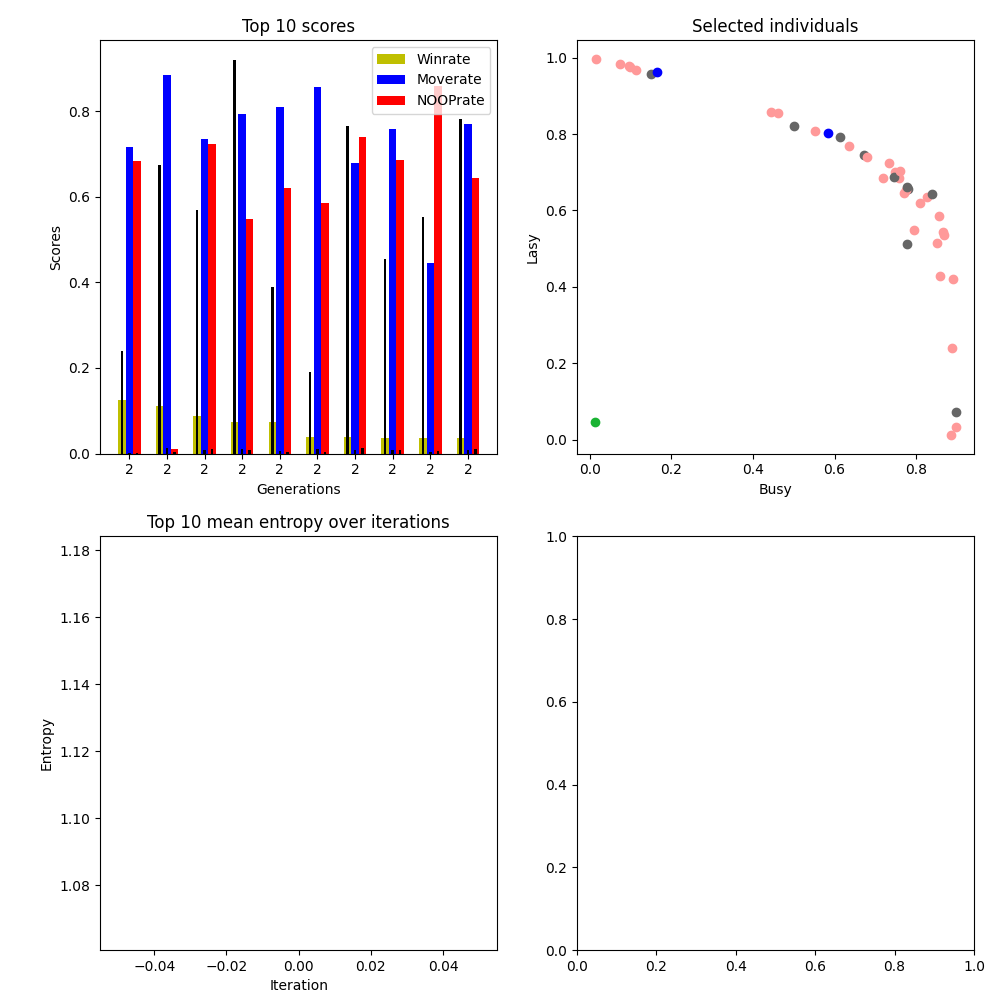
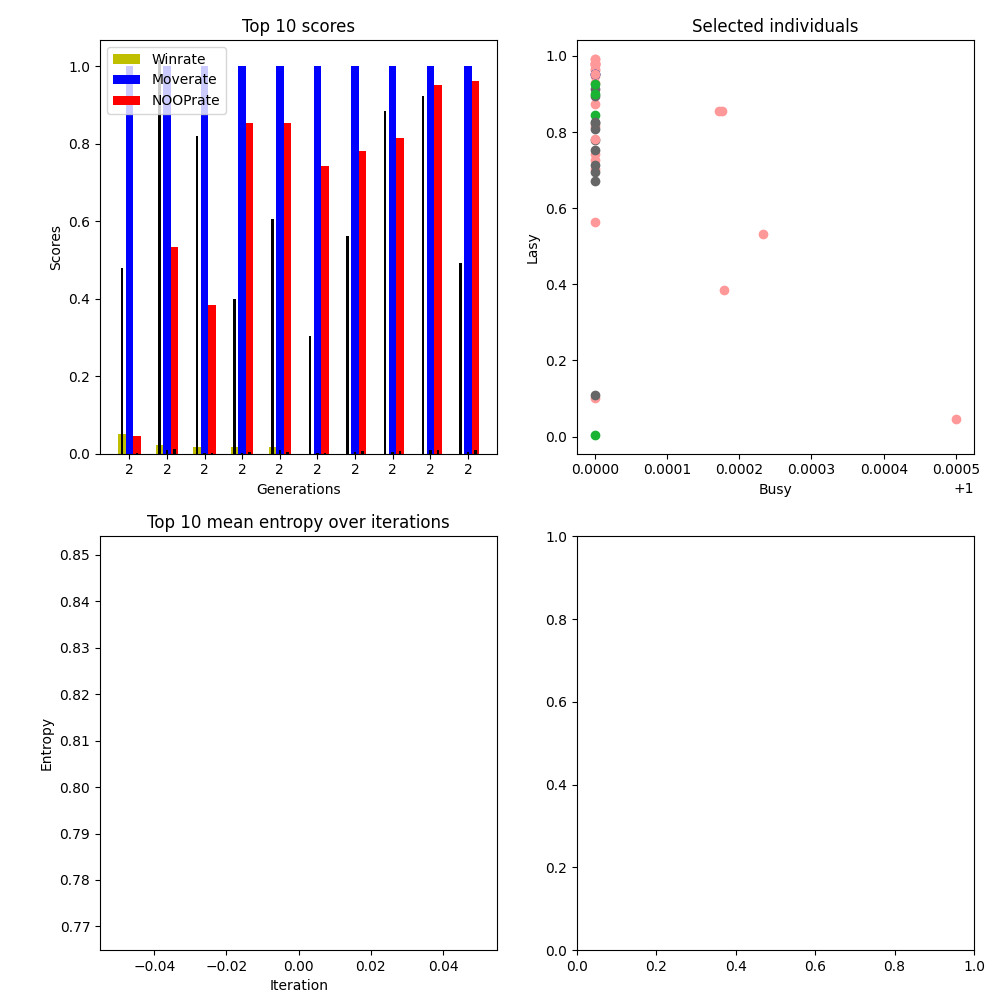
3-16

diff --git a/evolution_server.py b/evolution_server.py
@@ -193,7 +193,7 @@ class EvolutionServer:
                 dist += dist_
                 actions[action] += 1
                 observation_, reward, done, info = self.env.step(action) # players pad only moves every two frames
-                last_pos = observation_[51]
+                last_pos = self.util.preprocess(observation_)[4]
                 observation_, reward, done, info = self.env.step(action)
                 observation_ = self.util.preprocess(observation_)
                 observation = np.concatenate([observation[len(observation)//2:],observation_])
@@ -233,7 +233,7 @@ class EvolutionServer:
             action = player.pi.policy.get_action(observation)
             actions[action] += 1
             observation_, reward, done, info = self.env.step(action) # players pad only moves every two frames
-            last_pos = observation_[51]
+            last_pos = self.util.preprocess(observation_)[4]
             observation_, reward, done, info = self.env.step(action)
             observation_ = self.util.preprocess(observation_)
             distance_moved = self.util.pad_move(observation_, last_pos)
